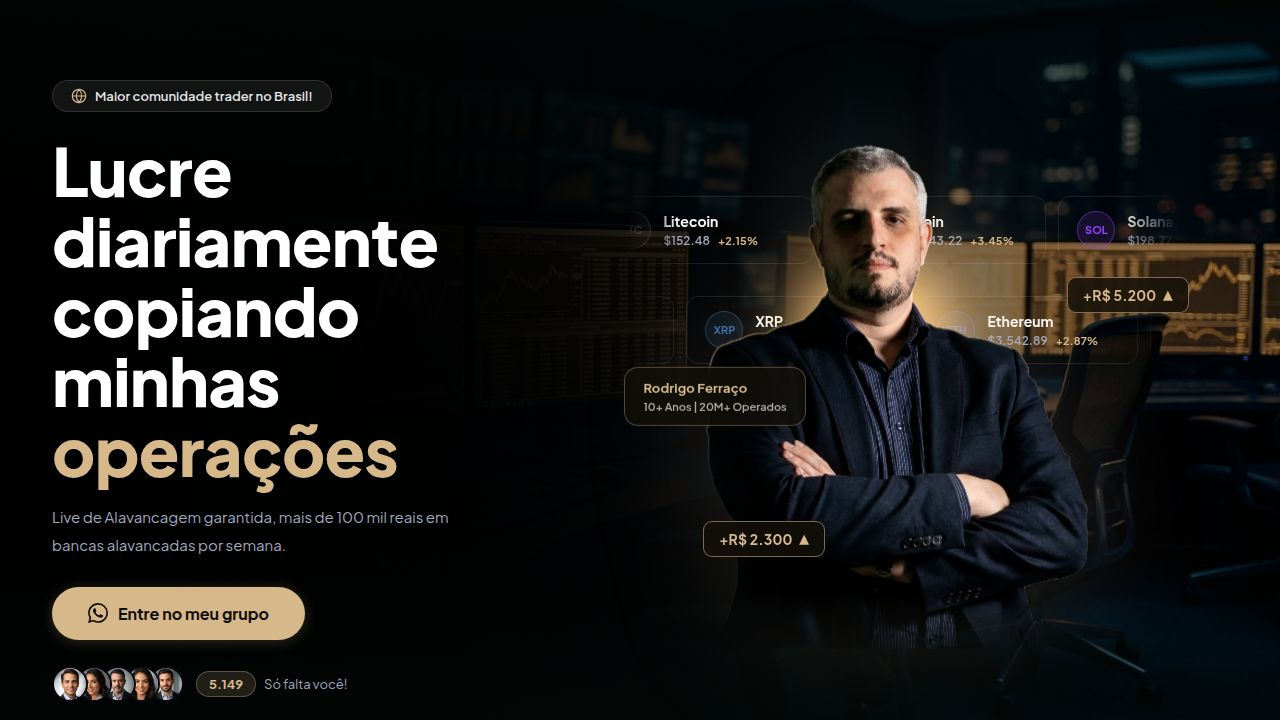
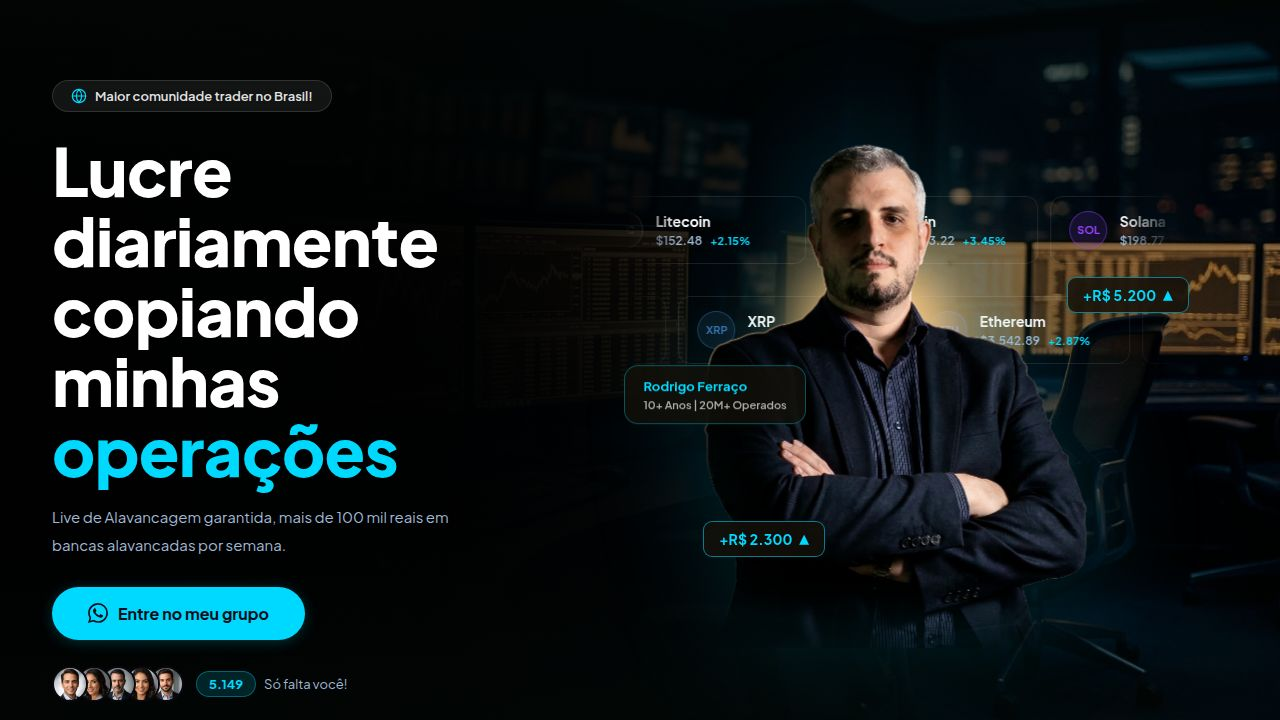
Update website theme to ocean blue with cyan accents
Modify index.html, favicon.svg, and App.tsx to implement the ocean blue theme, updating colors, gradients, and descriptions.

Replit-Commit-Author: Agent
Replit-Commit-Session-Id: 24ef2ebb-b694-4618-a196-cd29b2aea50c
Replit-Commit-Checkpoint-Type: full_checkpoint
Replit-Commit-Event-Id: 21ad4109-2aa1-4284-9f81-02d317cbccca
Replit-Commit-Screenshot-Url: https://storage.googleapis.com/screenshot-production-us-central1/76faad09-056e-4ecd-8c10-9123d1b5cfe6/24ef2ebb-b694-4618-a196-cd29b2aea50c/S1QcW0V
Replit-Helium-Checkpoint-Created: true

diff --git a/artifacts/vitao-ib/src/App.tsx b/artifacts/vitao-ib/src/App.tsx
@@ -19,12 +19,12 @@ function useIsMobile(bp = 640) {
 
 const CTA_LINK = "https://chat.whatsapp.com/DKnrtqBIwkU2ziUQDYOtJE";
 
-const BG_MAIN = "#0F0D0B";
-const BG_DARK = "#1A1713";
-const SAND = "#D6B88A";
-const SAND_D = "#C4A070";
-const ACCENT = "#D6B88A";
-const TEXT_M = "#A0A8BE";
+const BG_MAIN = "#0A0E1A";
+const BG_DARK = "#0D1628";
+const SAND = "#00D9FF";
+const SAND_D = "#0099CC";
+const ACCENT = "#00D9FF";
+const TEXT_M = "#A0B8D4";
 
 /* ─── COMPONENTS ─── */
 
@@ -44,7 +44,7 @@ function WaButton({ label = "Entre no meu grupo", style = {}, size = "md" }: {
         fontFamily: "'Plus Jakarta Sans',sans-serif",
         fontSize: lg ? 16 : 14, borderRadius: 999,
         textDecoration: "none", transition: "all 0.2s",
-        boxShadow: h ? "0 6px 28px rgba(214,184,138,0.38)" : "0 2px 14px rgba(214,184,138,0.22)",
+        boxShadow: h ? "0 6px 28px rgba(0,217,255,0.38)" : "0 2px 14px rgba(0,217,255,0.22)",
         transform: h ? "scale(1.03)" : "scale(1)", ...style
       }}>
       <svg width="20" height="20" viewBox="0 0 24 24" fill="currentColor" style={{ flexShrink: 0 }}>
@@ -100,7 +100,7 @@ function FloatingCoinCard({ coin, style = {} }: { coin: typeof COINS[0]; style?:
 function ProfitBadge({ value, style = {} }: { value: string; style?: React.CSSProperties }) {
   return (
     <div style={{
-      background: "rgba(20,16,10,0.82)", border: `1px solid rgba(214,184,138,0.55)`,
+      background: "rgba(20,16,10,0.82)", border: `1px solid rgba(0,217,255,0.55)`,
       borderRadius: 9, padding: "8px 15px",
       display: "inline-flex", alignItems: "center", gap: 7,
       fontFamily: "'Plus Jakarta Sans',sans-serif", fontWeight: 700, fontSize: 14, color: SAND,
@@ -135,7 +135,7 @@ function AvatarGroup({ count }: { count: string }) {
       </div>
       <div style={{ display: "flex", alignItems: "center", gap: 8 }}>
         <span style={{
-          background: "rgba(214,184,138,0.15)", border: "1px solid rgba(214,184,138,0.35)",
+          background: "rgba(0,217,255,0.15)", border: "1px solid rgba(0,217,255,0.35)",
           borderRadius: 20, padding: "4px 12px",
           fontFamily: "'Plus Jakarta Sans',sans-serif", fontWeight: 700, fontSize: 13, color: SAND,
         }}>{count}</span>
@@ -250,11 +250,11 @@ function PillarItem({ icon, title, short, detail, open, onToggle }: {
       onMouseEnter={() => setHov(true)}
       onMouseLeave={() => setHov(false)}
       style={{
-        background: open ? "rgba(214,184,138,0.08)" : hov ? "rgba(214,184,138,0.04)" : "rgba(255,255,255,0.02)",
-        border: `1px solid ${open ? "rgba(214,184,138,0.45)" : hov ? "rgba(214,184,138,0.22)" : "rgba(255,255,255,0.07)"}`,
+        background: open ? "rgba(0,217,255,0.08)" : hov ? "rgba(0,217,255,0.04)" : "rgba(255,255,255,0.02)",
+        border: `1px solid ${open ? "rgba(0,217,255,0.45)" : hov ? "rgba(0,217,255,0.22)" : "rgba(255,255,255,0.07)"}`,
         borderRadius: 12, padding: "14px 18px", cursor: "pointer",
         transition: "all 0.25s ease",
-        boxShadow: open ? "0 0 18px rgba(214,184,138,0.10)" : "none",
+        boxShadow: open ? "0 0 18px rgba(0,217,255,0.10)" : "none",
       }}
     >
       <div style={{ display: "flex", alignItems: "center", justifyContent: "space-between", gap: 12 }}>
@@ -280,7 +280,7 @@ function PillarItem({ icon, title, short, detail, open, onToggle }: {
       }}>
         <p style={{
           fontFamily: "'Plus Jakarta Sans',sans-serif", fontSize: 13, color: "rgba(255,255,255,0.65)",
-          lineHeight: 1.7, paddingTop: 12, borderTop: "1px solid rgba(214,184,138,0.15)", marginTop: 12
+          lineHeight: 1.7, paddingTop: 12, borderTop: "1px solid rgba(0,217,255,0.15)", marginTop: 12
         }}>{detail}</p>
       </div>
     </div>
@@ -359,10 +359,10 @@ export default function VitaoIBLP() {
         @import url('https://fonts.googleapis.com/css2?family=Plus+Jakarta+Sans:wght@400;500;600;700;800&family=Bebas+Neue&display=swap');
         *{box-sizing:border-box;margin:0;padding:0;}
         html,body{background:${BG_MAIN};font-family:'Plus Jakarta Sans',sans-serif;overflow-x:hidden;}
-        ::selection{background:rgba(214,184,138,.35);}
+        ::selection{background:rgba(0,217,255,.35);}
         ::-webkit-scrollbar{width:4px;}
         ::-webkit-scrollbar-track{background:${BG_MAIN};}
-        ::-webkit-scrollbar-thumb{background:rgba(214,184,138,.4);border-radius:2px;}
+        ::-webkit-scrollbar-thumb{background:rgba(0,217,255,.4);border-radius:2px;}
 
         @keyframes marquee{
           0%{transform:translateX(0)}
@@ -377,6 +377,7 @@ export default function VitaoIBLP() {
         @keyframes floatC{0%,100%{transform:translateY(0)}50%{transform:translateY(-12px)}}
         @keyframes livePulse{0%,100%{box-shadow:0 0 0 0 rgba(239,68,68,.5)}70%{box-shadow:0 0 0 14px rgba(239,68,68,0)}}
         @keyframes gentleSway{0%,100%{transform:translateX(0) translateY(0)}25%{transform:translateX(-6px) translateY(-3px)}50%{transform:translateX(0) translateY(0)}75%{transform:translateX(6px) translateY(3px)}}
+        @keyframes wave{0%{background-position:0 0}100%{background-position:100px 0}}
 
         .ticker-track{animation:marquee 18s linear infinite}
         .ticker-track:hover{animation-play-state:paused}
@@ -464,7 +465,7 @@ export default function VitaoIBLP() {
         <div style={{ position: "absolute", inset: 0, zIndex: 3, background: "linear-gradient(180deg, rgba(4,12,8,0.35) 0%, transparent 30%, transparent 70%, rgba(4,12,8,0.5) 100%)" }} />
 
         {/* Sand ambient glow */}
-        <div style={{ position: "absolute", top: "10%", right: "25%", width: 500, height: 500, background: "radial-gradient(circle, rgba(214,184,138,.07) 0%, transparent 70%)", pointerEvents: "none" }} />
+        <div style={{ position: "absolute", top: "10%", right: "25%", width: 500, height: 500, background: "radial-gradient(circle, rgba(0,217,255,.07) 0%, transparent 70%)", pointerEvents: "none" }} />
 
         {/* Left fog — keeps left copy area more legible */}
         <div style={{ position: "absolute", inset: 0, background: "linear-gradient(90deg, rgba(4,4,12,0.85) 0%, rgba(4,4,12,0.70) 38%, rgba(4,4,12,0.1) 70%, rgba(4,4,12,0.4) 100%)" }} />
@@ -558,7 +559,7 @@ export default function VitaoIBLP() {
                 maxHeight: 680,
                 objectFit: "contain",
                 objectPosition: "bottom center",
-                filter: "drop-shadow(0 0 60px rgba(214,184,138,.18))",
+                filter: "drop-shadow(0 0 60px rgba(0,217,255,.18))",
                 pointerEvents: "none",
                 userSelect: "none",
                 position: "relative", zIndex: 2,
@@ -570,7 +571,7 @@ export default function VitaoIBLP() {
             <div className="flt" style={{
               position: "absolute", left: "8%", top: "46%", zIndex: 10,
               background: "rgba(20,16,10,0.72)", backdropFilter: "blur(16px)",
-              border: "1px solid rgba(214,184,138,0.35)",
+              border: "1px solid rgba(0,217,255,0.35)",
               borderRadius: 14, padding: "12px 18px",
               display: "flex", flexDirection: "column", gap: 4,
               whiteSpace: "nowrap"
@@ -691,18 +692,18 @@ export default function VitaoIBLP() {
         {/* Same hero-bg image */}
         <div style={{ position: "absolute", inset: 0, backgroundImage: "url('/hero-bg.png')", backgroundSize: "cover", backgroundPosition: "center", zIndex: 0 }} />
         {/* Gold-to-dark overlay matching hero */}
-        <div style={{ position: "absolute", inset: 0, background: "linear-gradient(160deg, rgba(214,184,138,0.35) 0%, rgba(15,13,11,0.92) 100%)", zIndex: 1 }} />
+        <div style={{ position: "absolute", inset: 0, background: "linear-gradient(160deg, rgba(0,217,255,0.25) 0%, rgba(10,14,26,0.92) 100%)", zIndex: 1 }} />
 
         <div style={{ maxWidth: 400, margin: "0 auto", position: "relative", zIndex: 2 }}>
           <div className="cta-card" style={{
-            background: "linear-gradient(150deg,rgba(20,16,10,0.88) 0%,rgba(30,24,14,0.92) 50%,rgba(20,16,10,0.88) 100%)",
-            border: "1.5px solid rgba(214,184,138,.35)", borderRadius: 24,
+            background: "linear-gradient(150deg,rgba(13,22,40,0.88) 0%,rgba(20,35,60,0.92) 50%,rgba(13,22,40,0.88) 100%)",
+            border: "1.5px solid rgba(0,217,255,.35)", borderRadius: 24,
             padding: "52px 36px 44px", textAlign: "center", position: "relative", overflow: "hidden",
-            boxShadow: "0 0 60px rgba(214,184,138,.12), inset 0 1px 0 rgba(255,255,255,.06)",
+            boxShadow: "0 0 60px rgba(0,217,255,.12), inset 0 1px 0 rgba(255,255,255,.06)",
             backdropFilter: "blur(12px)"
           }}>
-            {/* Gold glow top */}
-            <div style={{ position: "absolute", top: -80, left: "50%", transform: "translateX(-50%)", width: 320, height: 200, background: "radial-gradient(ellipse, rgba(214,184,138,.18), transparent 70%)", pointerEvents: "none" }} />
+            {/* Cyan glow top */}
+            <div style={{ position: "absolute", top: -80, left: "50%", transform: "translateX(-50%)", width: 320, height: 200, background: "radial-gradient(ellipse, rgba(0,217,255,.22), transparent 70%)", pointerEvents: "none" }} />
 
             {/* LIVE badge — red circle with LIVE text + play icon */}
             <div style={{ display: "flex", justifyContent: "center", marginBottom: 24, position: "relative", zIndex: 1 }}>
@@ -744,7 +745,7 @@ export default function VitaoIBLP() {
       {/* ──── FOOTER ──── */}
       <footer className="footer-main" style={{ background: BG_DARK, borderTop: "1px solid rgba(255,255,255,.04)", padding: "28px 52px", display: "flex", justifyContent: "space-between", alignItems: "center", flexWrap: "wrap", gap: 16 }}>
         <div style={{ display: "flex", flexDirection: "column", alignItems: "center", gap: 3 }}>
-          <div style={{ width: 34, height: 34, borderRadius: 9, background: "rgba(214,184,138,.15)", border: "1.5px solid rgba(214,184,138,.5)", display: "flex", alignItems: "center", justifyContent: "center" }}>
+          <div style={{ width: 34, height: 34, borderRadius: 9, background: "rgba(0,217,255,.15)", border: "1.5px solid rgba(0,217,255,.5)", display: "flex", alignItems: "center", justifyContent: "center" }}>
             <svg width="16" height="16" viewBox="0 0 24 24" fill="none">
               <path d="M12 2 L12 22 M7 5 L12 2 L17 5 M7 19 L12 22 L17 19 M4 9 L7 7 M20 9 L17 7 M4 15 L7 17 M20 15 L17 17" stroke="#D6B88A" strokeWidth="2" strokeLinecap="round" strokeLinejoin="round" />
             </svg>
@@ -773,7 +774,7 @@ export default function VitaoIBLP() {
             style={{
               maxHeight: "90vh", maxWidth: "90vw",
               borderRadius: 20,
-              border: "1px solid rgba(214,184,138,.35)",
+              border: "1px solid rgba(0,217,255,.35)",
               objectFit: "contain",
               boxShadow: "0 32px 80px rgba(0,0,0,0.7)"
             }}

diff --git a/artifacts/vitao-ib/index.html b/artifacts/vitao-ib/index.html
@@ -11,15 +11,15 @@
     <meta charset="UTF-8" />
     <meta name="viewport" content="width=device-width, initial-scale=1.0, maximum-scale=1" />
     <title>Rodrigo Ferraço</title>
-    <meta name="description" content="Leitura institucional com quem realmente entende as profundezas do mercado financeiro. Especialista em Forex, metais internacionais e fluxo institucional." />
+    <meta name="description" content="Leitura institucional com quem realmente entende as profundezas do mercado financeiro. Especialista em BeFinance, metais internacionais e fluxo institucional." />
     <meta property="og:title" content="Rodrigo Ferraço - Coliseu" />
-    <meta property="og:description" content="Leitura institucional com quem realmente entende as profundezas do mercado financeiro. Especialista em Forex, metais internacionais e fluxo institucional." />
+    <meta property="og:description" content="Leitura institucional com quem realmente entende as profundezas do mercado financeiro. Especialista em BeFinance, metais internacionais e fluxo institucional." />
     <meta property="og:image" content="https://rodrigoferraco.ocoliseu.com/assets/Rodrigo_Ferra%C3%A7o_(2)_1773249785897-BjdD8Li-.jpg" />
     <meta property="og:url" content="https://rodrigoferraco.ocoliseu.com/" />
     <meta property="og:type" content="website" />
     <meta name="twitter:card" content="summary_large_image" />
     <meta name="twitter:title" content="Rodrigo Ferraço - Coliseu" />
-    <meta name="twitter:description" content="Leitura institucional com quem realmente entende as profundezas do mercado financeiro." />
+    <meta name="twitter:description" content="Especialista em BeFinance, metais internacionais e leitura institucional. Operações profissionais e formação." />
     <meta name="twitter:image" content="https://rodrigoferraco.ocoliseu.com/assets/Rodrigo_Ferra%C3%A7o_(2)_1773249785897-BjdD8Li-.jpg" />
     <link rel="icon" type="image/svg+xml" href="/favicon.svg" />
     <link rel="preconnect" href="https://fonts.googleapis.com">
